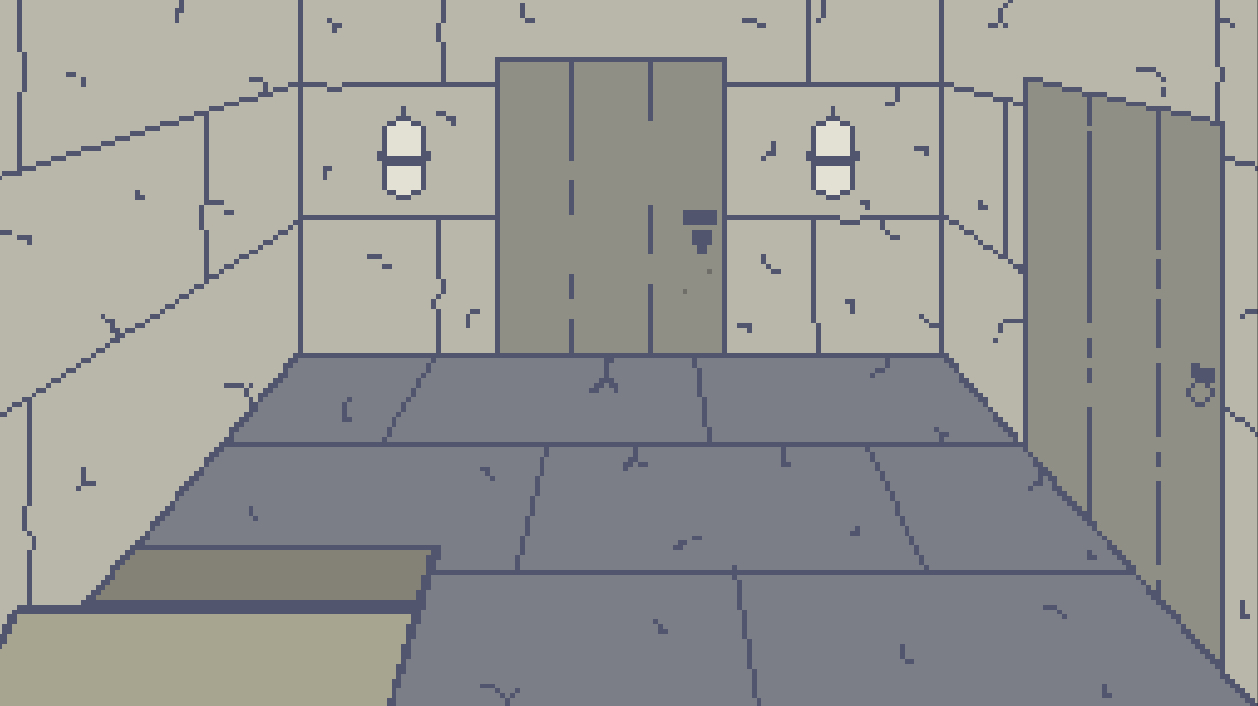
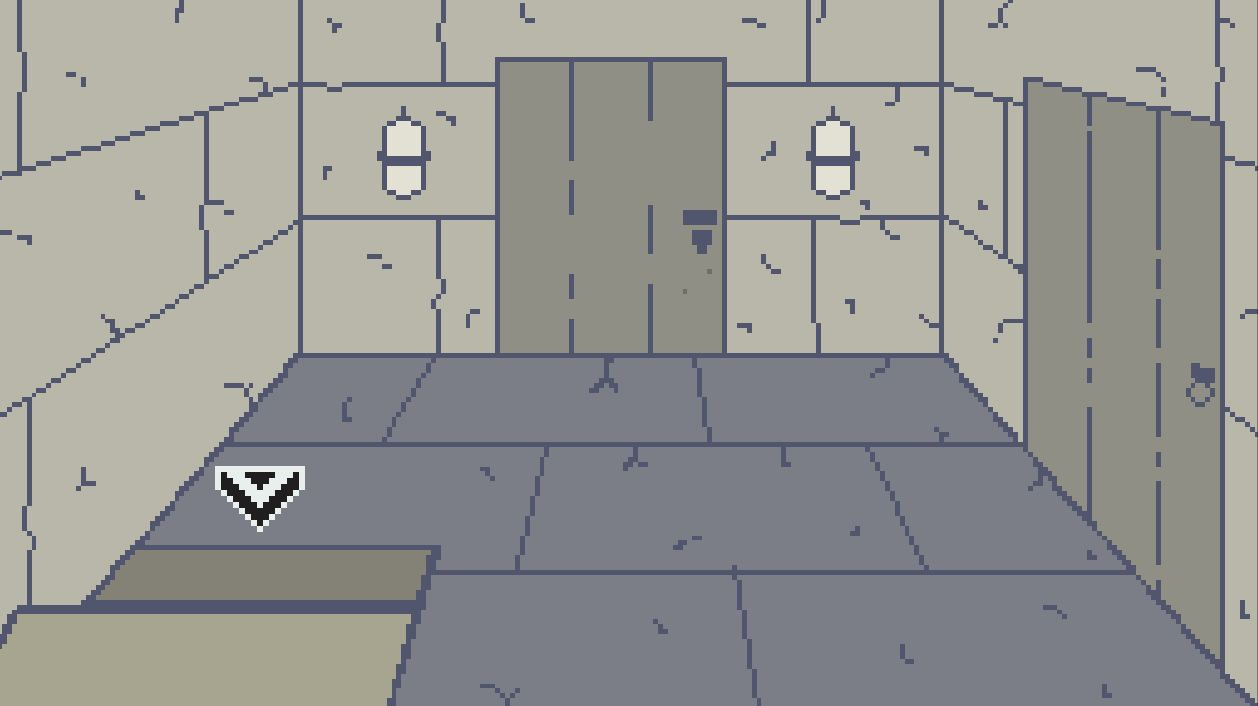
Fix: fixed the room image and the items not being displayed properly and added a brief flash after grabbing an item.

Changed region(s): [[0.155, 0.6544, 0.248, 0.7479]]

diff --git a/src/web/src/components/CanvasComponent.ts b/src/web/src/components/CanvasComponent.ts
@@ -400,7 +400,7 @@ max-height: 5vh;
             width: 100%;
             max-width: 100vw;
             height: auto;
-            position: relative;
+            position: absolute;
             left: 50%;
             transform: translateX(-50%);
         }
@@ -427,6 +427,14 @@ max-height: 5vh;
     z-index: 50;
     background: #211e20;
         transform: translateY(12px);
+                overflow-y: auto;
+        overflow-x: hidden;
+
+        /* iOS smooth scrolling */
+        -webkit-overflow-scrolling: touch;
+
+        /* Prevent scroll chaining to body */
+        overscroll-behavior: contain;
 }
 
 
@@ -475,6 +483,14 @@ max-height: 5vh;
             overflow-y: auto;
             overflow-x: hidden;
             background: transparent;
+                    overflow-y: auto;
+        overflow-x: hidden;
+
+        /* iOS smooth scrolling */
+        -webkit-overflow-scrolling: touch;
+
+        /* Prevent scroll chaining to body */
+        overscroll-behavior: contain;
         }
 
         /* Footer - Standalone (Startup/Game-Over/Win) - also overlaid */
@@ -492,6 +508,14 @@ max-height: 5vh;
             overflow-x: hidden;
             z-index: 50;
             background: transparent;
+                    overflow-y: auto;
+        overflow-x: hidden;
+
+        /* iOS smooth scrolling */
+        -webkit-overflow-scrolling: touch;
+
+        /* Prevent scroll chaining to body */
+        overscroll-behavior: contain;
         }
 
         /* ENABLE GameUI.gif on mobile as background */
@@ -569,6 +593,14 @@ max-height: 5vh;
             height: 5vh;
             min-height: 40px;
             transform: translateY(16px);
+                    overflow-y: auto;
+        overflow-x: hidden;
+
+        /* iOS smooth scrolling */
+        -webkit-overflow-scrolling: touch;
+
+        /* Prevent scroll chaining to body */
+        overscroll-behavior: contain;
         }
 
         .footer .button {
@@ -609,6 +641,34 @@ max-height: 5vh;
             font-size: 13px;
         }
     }
+
+    /* ============================================
+   INVENTORY NEW ITEM FLASH
+   ============================================ */
+
+@keyframes inventory-flash {
+    0% {
+        filter: brightness(1);
+        transform: scale(1);
+    }
+    30% {
+        filter: brightness(2);
+        transform: scale(1.15);
+    }
+    60% {
+        filter: brightness(1.4);
+        transform: scale(1.05);
+    }
+    100% {
+        filter: brightness(1);
+        transform: scale(1);
+    }
+}
+
+.inventory-flash {
+    animation: inventory-flash 0.8s ease-out;
+    z-index: 3000;
+}
 `;
 
 /**
@@ -639,6 +699,10 @@ export class CanvasComponent extends HTMLElement {
     /** Initiates the audio */
     private ambianceSound!: HTMLAudioElement;
     private _timer: Timer | undefined;
+
+    /** Used to detect newly added inventory items */
+    private _previousInventory: string[] = [];
+
     /**
      * The "constructor" of a Web Component
      */
@@ -670,6 +734,9 @@ export class CanvasComponent extends HTMLElement {
             return;
         }
 
+        const previousInventory: string[] =
+        this._currentGameState?.inventory ?? [];
+
         // Reset the component
         this._currentGameState = state;
 
@@ -678,6 +745,36 @@ export class CanvasComponent extends HTMLElement {
 
         // Refresh the web component
         await this.render();
+
+        // Flash newly added inventory items
+        this.flashNewInventoryItems(previousInventory, state.inventory);
+    }
+
+    private flashNewInventoryItems(
+        previousInventory: string[],
+        currentInventory: string[]
+    ): void {
+        if (!this.shadowRoot) return;
+
+        const newItems: string[] = currentInventory.filter(
+            item => !previousInventory.includes(item)
+        );
+
+        if (newItems.length === 0) return;
+
+        newItems.forEach(itemId => {
+            const button: HTMLElement | null =
+            this.shadowRoot!.querySelector(`#${itemId}`);
+
+            if (!button) return;
+
+            button.classList.add("inventory-flash");
+
+            // Remove class after animation completes
+            window.setTimeout(() => {
+                button.classList.remove("inventory-flash");
+            }, 800);
+        });
     }
 
     private _CRTShader: CRTShader | undefined;
